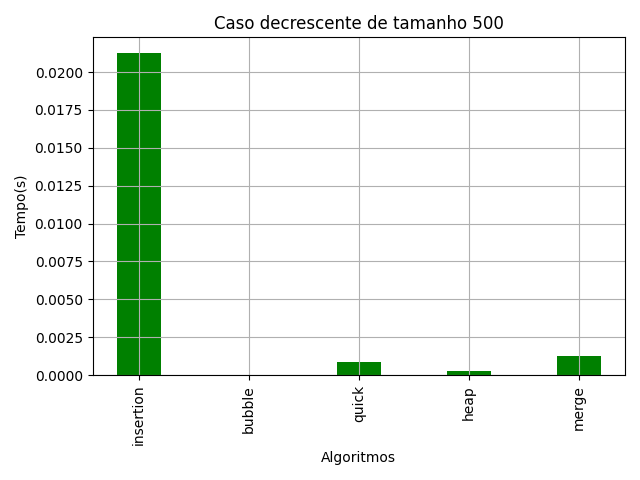
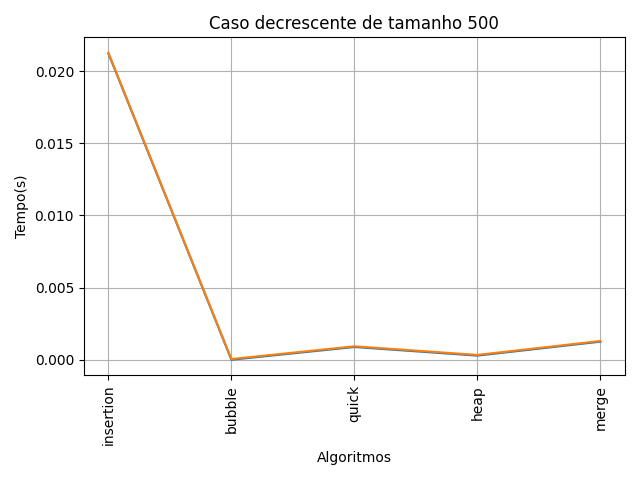
Plot de gráficos em linha adicionado

diff --git a/arroz.py b/arroz.py
@@ -1,0 +1,147 @@
+import matplotlib.pyplot as plt
+import os
+
+def gerar_grafico(y_axis_crescente, y_axis_decrescente, y_axis_random, tamanho):
+    ''''''
+    
+    x_axis_crescente = range(len(y_axis_crescente))
+    x_axis_decrescente = range(len(y_axis_decrescente))
+    x_axis_random = range(len(y_axis_random))
+    algoritmos = ['insertion', 'bubble', 'quick', 'heap', 'merge']
+
+    plt.plot(x_axis_crescente, y_axis_crescente, label="Crescente")
+    plt.plot(x_axis_decrescente, y_axis_decrescente, label="Decrescente")
+    plt.plot(x_axis_random, y_axis_random, label="Aleatório")
+    plt.legend()
+
+    plt.ylabel('Tempo(s)')
+    plt.xlabel('Algoritmos')
+
+    plt.xticks(x_axis_crescente, algoritmos, rotation='vertical')
+    plt.xticks(x_axis_decrescente, algoritmos, rotation='vertical')
+    plt.xticks(x_axis_random, algoritmos, rotation='vertical')
+
+    plt.title('Caso '+'de tamanho '+str(tamanho))
+    plt.tight_layout()
+    plt.grid(True)
+
+    plt.savefig(os.getcwd()+'/_plot2/tempos-'+str(tamanho)+'.png')
+    print('>>> figura ', str(tamanho), '.png salva!')
+    plt.close()
+    # plt.show()
+
+def gerar_grafico_comparacoes(y_axis_crescente, y_axis_decrescente, y_axis_random, tamanho):
+
+    x_axis_crescente = range(len(y_axis_crescente))
+    x_axis_decrescente = range(len(y_axis_decrescente))
+    x_axis_random = range(len(y_axis_random))
+    algoritmos = ['insertion', 'bubble', 'quick', 'heap', 'merge']
+
+    plt.plot(x_axis_crescente, y_axis_crescente, label="Crescente")
+    plt.plot(x_axis_decrescente, y_axis_decrescente, label="Decrescente")
+    plt.plot(x_axis_random, y_axis_random, label="Aleatório")
+    plt.legend()
+    algoritmos = ['insertion', 'bubble', 'quick', 'heap', 'merge']
+
+    plt.ylabel('Comparações')
+    plt.xlabel('Algoritmos')
+
+    plt.xticks(x_axis_crescente, algoritmos, rotation='vertical')
+    plt.xticks(x_axis_decrescente, algoritmos, rotation='vertical')
+    plt.xticks(x_axis_random, algoritmos, rotation='vertical')
+    
+    plt.title('Caso '+' de tamanho '+str(tamanho))
+    plt.tight_layout()
+    plt.grid(True)
+
+    plt.savefig(os.getcwd()+'/_plot2/comparacoes-'+str(tamanho)+'.png')
+    print('>>> figura ', '.png salva!')
+    plt.close()
+    # plt.show()
+
+
+def get_valores_pro_grafico(tam, valor_tipo):
+    ''''''
+    if valor_tipo == "tempo":
+        arquivo_crescente = open(os.getcwd()+'/timeIt/temposApenasNum'+"crescente"+str(tam)+'.txt', 'r')
+        arquivo_decrescente = open(os.getcwd()+'/timeIt/temposApenasNum'+"decrescente"+str(tam)+'.txt', 'r')
+        arquivo_random = open(os.getcwd()+'/timeIt/temposApenasNum'+"random"+str(tam)+'.txt', 'r')
+    else:
+        arquivo_crescente = open(os.getcwd()+'/comparisons/comparacoesApenasNum'+"crescente"+str(tam)+'.txt', 'r')
+        arquivo_decrescente = open(os.getcwd()+'/comparisons/comparacoesApenasNum'+"decrescente"+str(tam)+'.txt', 'r')
+        arquivo_random = open(os.getcwd()+'/comparisons/comparacoesApenasNum'+"random"+str(tam)+'.txt', 'r')
+
+    arquivos = [arquivo_crescente, arquivo_decrescente, arquivo_random]
+    valores_por_tipo = []
+    for i in range(0, len(arquivos)):
+        valores = arquivos[i].read()
+
+        arquivos[i].close()
+        insertion = 0
+        bubble = 0
+        quick = 0
+        heap = 0
+        merge = 0
+        tmp = ''
+        v1 = True
+        v2 = False
+        v3 = False
+        v4 = False
+        v5 = False
+        for j in range(len(valores)):
+
+            if valores[j] == '\n':
+                if insertion == 0 and v1:
+                    insertion = tmp
+                    tmp = ''
+                    v1 = False
+                    v2 = True
+                elif bubble == 0 and v2:
+                    bubble = tmp
+                    tmp = ''
+                    v2 = False
+                    v3 = True
+                elif quick == 0 and v3:
+                    quick = tmp
+                    tmp = ''
+                    v3 = False
+                    v4 = True
+                elif heap == 0 and v4:
+                    heap = tmp
+                    tmp = ''
+                    v4 = False
+                    v5 = True
+                elif merge == 0 and v5:
+                    merge = tmp
+                    tmp = ''
+            else:
+                tmp += valores[j]
+        print('insertion = ', insertion, ' bubble = ', bubble, 'quick = ', quick, ' heap = ', heap, ' merge = ', merge)
+        valores_por_tipo.append([float(insertion), float(bubble), float(quick), float(heap), float(merge)])
+
+        
+    if valor_tipo == "tempo":
+        gerar_grafico(valores_por_tipo[0],valores_por_tipo[1],valores_por_tipo[2], tamanho=tam)
+    else:
+        gerar_grafico_comparacoes(valores_por_tipo[0],valores_por_tipo[1],valores_por_tipo[2], tamanho=tam)
+
+if __name__ == "__main__":
+    get_valores_pro_grafico(100, "tempo")
+    get_valores_pro_grafico(500, "tempo")
+    get_valores_pro_grafico(1000, "tempo")
+    get_valores_pro_grafico(5000, "tempo")
+    get_valores_pro_grafico(30000, "tempo")
+    get_valores_pro_grafico(50000, "tempo")
+    get_valores_pro_grafico(100000, "tempo")
+    get_valores_pro_grafico(150000, "tempo")
+    #get_valores_pro_grafico(200000, "tempo")
+
+    get_valores_pro_grafico(100, "comparacoes")
+    get_valores_pro_grafico(500, "comparacoes")
+    get_valores_pro_grafico(1000, "comparacoes")
+    get_valores_pro_grafico(5000, "comparacoes")
+    get_valores_pro_grafico(30000, "comparacoes")
+    get_valores_pro_grafico(50000, "comparacoes")
+    get_valores_pro_grafico(100000, "comparacoes")
+    get_valores_pro_grafico(150000, "comparacoes")
+    #get_valores_pro_grafico(200000, "comparacoes")
